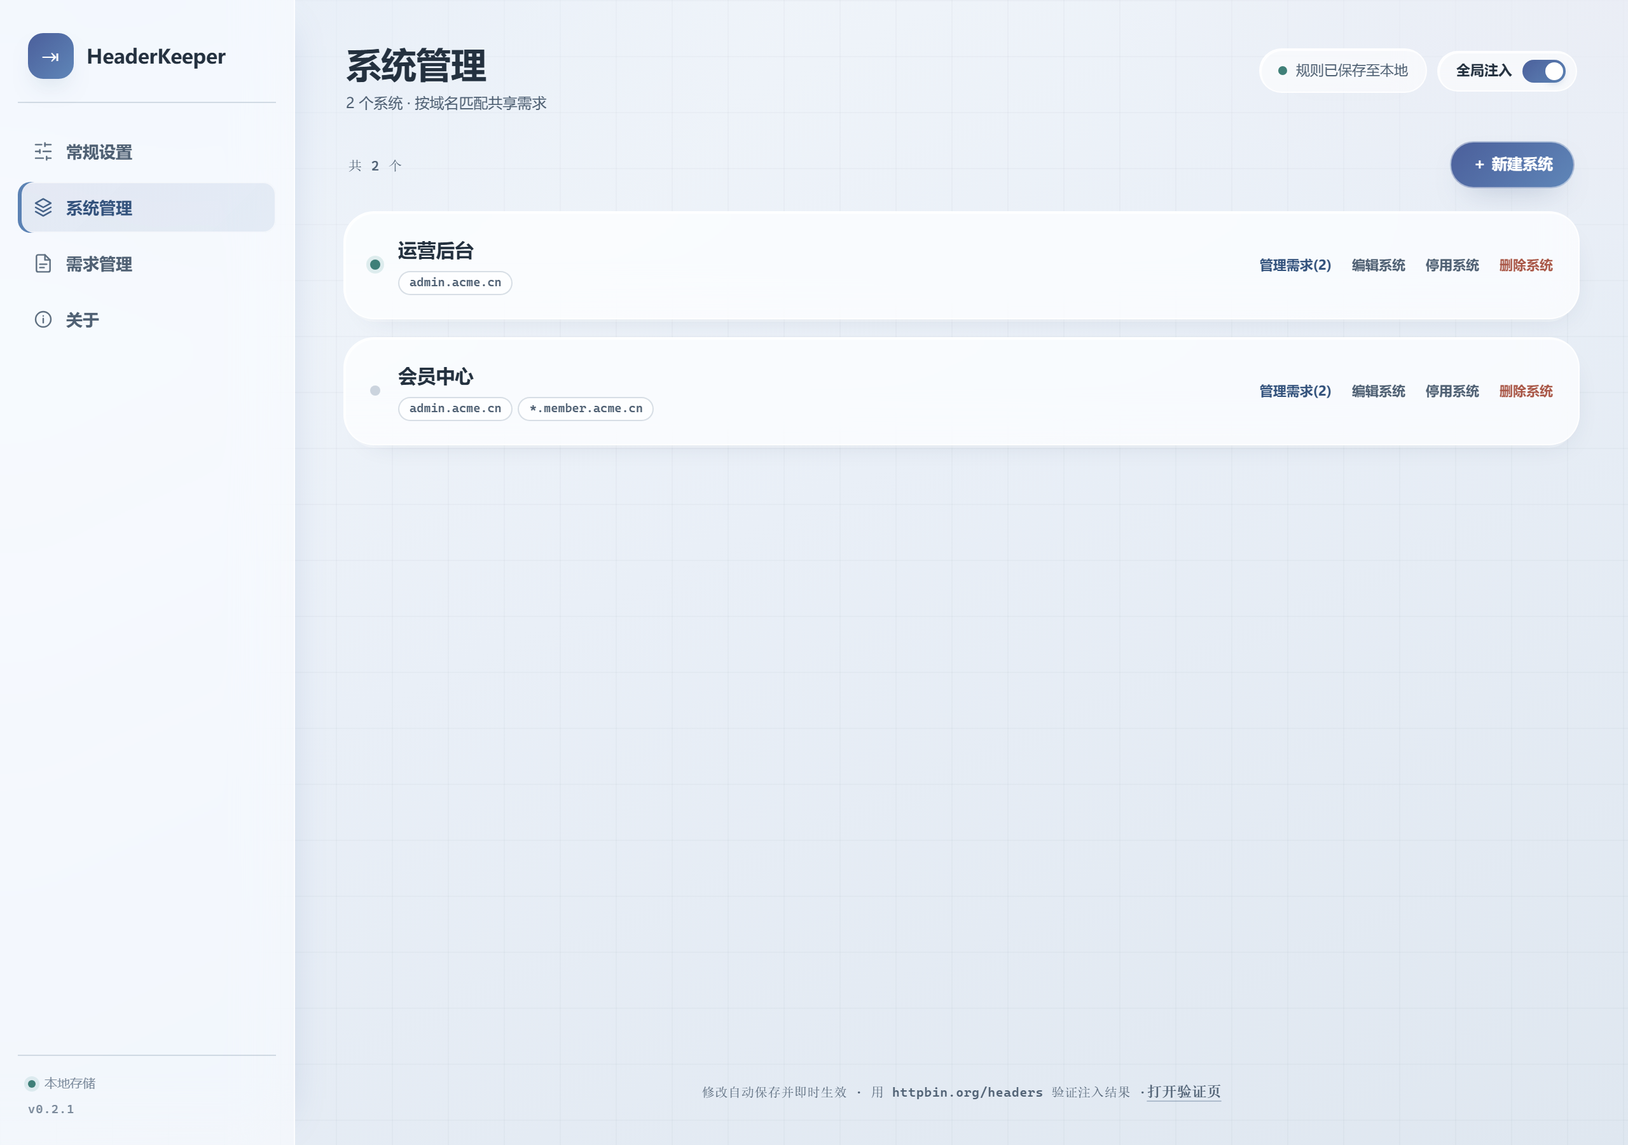
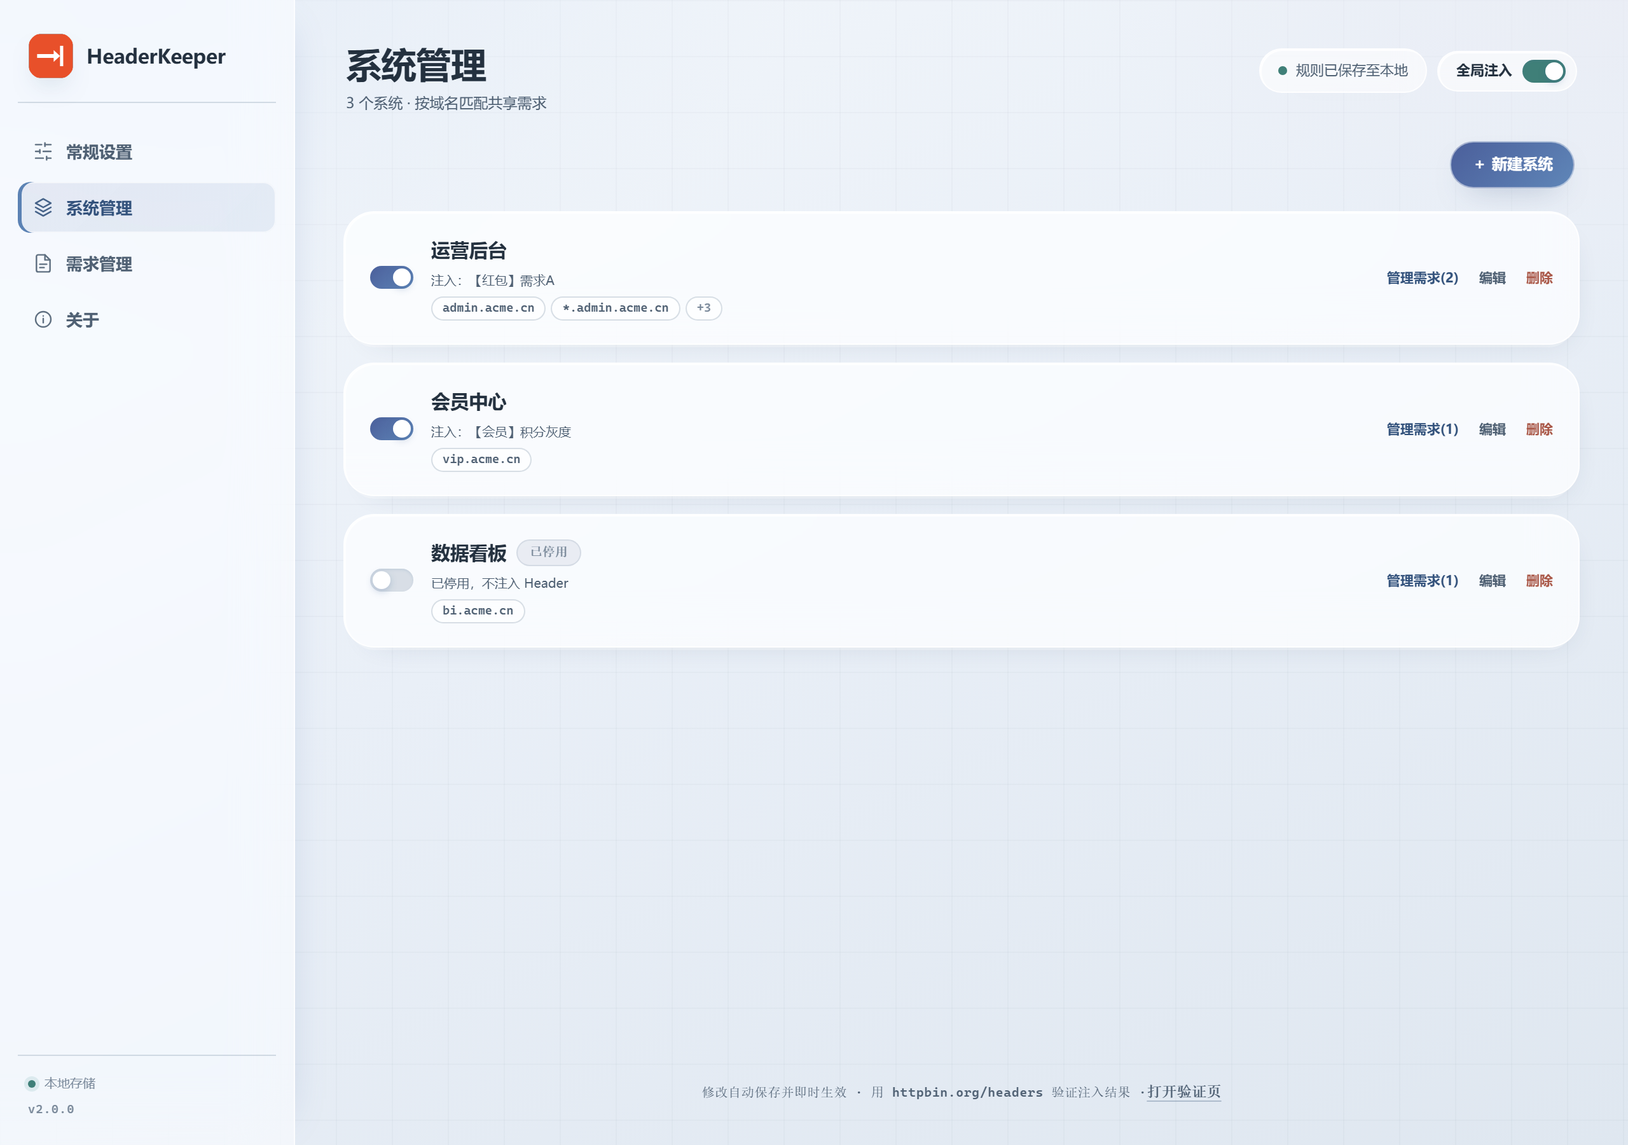
chore: 清理死代码并同步文档与截图
- 删除 18 个未使用 i18n key（中英各一份）与整文件 utils/format.ts
- 删除未使用 CSS（.banner/.edit-row/.sys-row-count/.sys-row-chevron/
  .req-delete-warning/.btn.dashed/.btn.danger-ghost），组选择器收窄
- 收窄导出面：9 个仅内部使用的函数与 4 个类型去掉 export
- .gitignore 补充 .zcode/ 与 .commandcode/
- README 六处失真描述更新（Header Key live-save、系统列表新交互、
  冲突检测含同需求重复、导入双键校验等）
- docs/images 四张截图按当前 UI 重新生成

diff --git a/lib/i18n.ts b/lib/i18n.ts
@@ -11,12 +11,8 @@ const zh = {
   'common.loading': '加载中…',
   'common.save': '保存',
   'common.cancel': '取消',
-  'common.create': '创建',
   'common.clear': '清除',
   'common.delete': '删除',
-  'common.edit': '编辑',
-  'common.confirmDeleteQuestion': '确认删除？',
-  'common.confirmAgain': '再次点击确认删除',
 
   // 弹窗 · 总开关
   'master.on': '全局注入已开启',
@@ -123,28 +119,18 @@ const zh = {
   'systems.domains': '匹配域名',
   'systems.create': '创建系统',
   'systems.empty': '还没有系统，先创建一个。',
-  'systems.delete': '删除系统',
   'systems.deleteConfirm': '确认删除',
   'systems.deleteTitle': '删除系统「{name}」',
-  'systems.nameRequired': '系统名称必填',
   'systems.nameDuplicate': '系统名称已存在',
-  'systems.domainRequired': '请至少填写一个有效域名',
   'systems.back': '< 返回系统列表',
-  'systems.info': '基础信息',
-  'systems.enabled': '参与注入',
   'systems.newRequirement': '＋ 新建需求',
   'systems.linkRequirement': '＋ 关联已有需求',
   'systems.noRequirements': '该系统还没有关联需求',
   'systems.noFiltered': '没有符合筛选条件的需求',
   'systems.remove': '移出本系统',
   'systems.removeTitle': '只解除引用，不会删除共享需求',
-  'systems.shared': '共享 · {n} 个系统',
   'systems.deleteNote': '删除系统只会移除它的注入配置，共享需求会保留。',
   'systems.createRequirement': '创建并关联',
-  'systems.requirementNamePh': '需求名称，如 需求1',
-  'systems.requirementDescPh': '需求描述（可选）',
-  'systems.nameLabel': '系统名称',
-  'systems.domainsLabel': '匹配域名',
   'systems.reqSection': '关联需求',
 
   // 关联需求弹窗
@@ -159,16 +145,13 @@ const zh = {
   'requirements.empty': '共享需求库还是空的。',
   'requirements.noFiltered': '没有符合筛选条件的需求',
   'requirements.referencedBy': '被引用',
-  'requirements.unreferenced': '未被任何系统引用',
   'requirements.deleteTitle': '删除共享需求',
   'requirements.deleteConfirm': '确认删除',
   'requirements.deleteWarning': '将从 {n} 个系统中移除该需求',
   'requirements.deleteWarningNone': '该需求未被任何系统引用',
-  'requirements.sharedHint': '共享需求，修改会同步到所有引用系统',
   'requirements.createNamePh': '需求名称，如 需求1',
   'requirements.createDescPh': '需求描述（可选）',
   'requirements.create': '创建需求',
-  'requirements.nameRequired': '需求名称必填',
   'requirements.orphan': '未引用',
   'requirements.etc': '等',
   'requirements.refSeparator': '、',
@@ -183,7 +166,6 @@ const zh = {
   'filters.valid': '未过期',
   'filters.expired': '已过期',
   'filters.search': '搜索',
-  'filters.clear': '清除筛选',
 
   // 需求卡片
   'requirement.unnamed': '未命名需求',
@@ -273,12 +255,8 @@ const en: { [K in keyof typeof zh]: string } = {
   'common.loading': 'Loading…',
   'common.save': 'Save',
   'common.cancel': 'Cancel',
-  'common.create': 'Create',
   'common.clear': 'Clear',
   'common.delete': 'Delete',
-  'common.edit': 'Edit',
-  'common.confirmDeleteQuestion': 'Delete this?',
-  'common.confirmAgain': 'Click again to confirm',
 
   'master.on': 'Global injection is ON',
   'master.off': 'Global injection is OFF',
@@ -383,28 +361,18 @@ const en: { [K in keyof typeof zh]: string } = {
   'systems.domains': 'Match domains',
   'systems.create': 'Create system',
   'systems.empty': 'No systems yet — create one first.',
-  'systems.delete': 'Delete system',
   'systems.deleteConfirm': 'Confirm delete',
   'systems.deleteTitle': 'Delete system "{name}"',
-  'systems.nameRequired': 'System name is required',
   'systems.nameDuplicate': 'System name already exists',
-  'systems.domainRequired': 'Enter at least one valid domain',
   'systems.back': '< Back to systems',
-  'systems.info': 'Basics',
-  'systems.enabled': 'Inject',
   'systems.newRequirement': '＋ New requirement',
   'systems.linkRequirement': '＋ Link existing',
   'systems.noRequirements': 'No requirements linked to this system yet',
   'systems.noFiltered': 'No requirements match the filters',
   'systems.remove': 'Remove from system',
   'systems.removeTitle': 'Unlinks only — the shared requirement is kept',
-  'systems.shared': 'Shared · {n} systems',
   'systems.deleteNote': 'Deleting a system only removes its injection setup; shared requirements stay.',
   'systems.createRequirement': 'Create and link',
-  'systems.requirementNamePh': 'Requirement name, e.g. Req 1',
-  'systems.requirementDescPh': 'Description (optional)',
-  'systems.nameLabel': 'System name',
-  'systems.domainsLabel': 'Match domains',
   'systems.reqSection': 'Linked requirements',
 
   'picker.title': 'Link existing requirement',
@@ -417,16 +385,13 @@ const en: { [K in keyof typeof zh]: string } = {
   'requirements.empty': 'The shared requirement library is empty.',
   'requirements.noFiltered': 'No requirements match the filters',
   'requirements.referencedBy': 'Referenced by',
-  'requirements.unreferenced': 'Not referenced by any system',
   'requirements.deleteTitle': 'Delete shared requirement',
   'requirements.deleteConfirm': 'Confirm delete',
   'requirements.deleteWarning': 'Will be removed from {n} systems',
   'requirements.deleteWarningNone': 'This requirement is not referenced by any system',
-  'requirements.sharedHint': 'Shared requirement — edits apply to every referencing system',
   'requirements.createNamePh': 'Requirement name, e.g. Req 1',
   'requirements.createDescPh': 'Description (optional)',
   'requirements.create': 'Create requirement',
-  'requirements.nameRequired': 'Requirement name is required',
   'requirements.orphan': 'Unlinked',
   'requirements.etc': '…',
   'requirements.refSeparator': ', ',
@@ -440,7 +405,6 @@ const en: { [K in keyof typeof zh]: string } = {
   'filters.valid': 'Not expired',
   'filters.expired': 'Expired',
   'filters.search': 'Search',
-  'filters.clear': 'Clear filters',
 
   'requirement.unnamed': 'Untitled requirement',
   'requirement.createTitle': 'New requirement',

diff --git a/styles/base.css b/styles/base.css
@@ -281,33 +281,6 @@ input[type='text'].key-input {
   box-shadow: 0 12px 26px -14px rgb(169 87 71 / 0.55);
 }
 
-.btn.dashed {
-  background: transparent;
-  border: 1.5px dashed var(--line-strong);
-  border-radius: var(--r-md);
-  box-shadow: none;
-  color: var(--ink-2);
-}
-
-.btn.dashed:hover {
-  border-color: var(--accent);
-  background: var(--accent-soft);
-  color: var(--accent-deep);
-  box-shadow: none;
-}
-
-.btn.danger-ghost {
-  background: transparent;
-  box-shadow: none;
-  color: var(--ink-2);
-}
-
-.btn.danger-ghost:hover {
-  background: var(--red-soft);
-  box-shadow: none;
-  color: var(--red);
-}
-
 .icon-btn {
   display: inline-flex;
   align-items: center;
@@ -344,21 +317,6 @@ input[type='text'].key-input {
 .link-btn:hover {
   color: var(--accent-deep);
   text-decoration-color: currentColor;
-}
-
-/* 状态提示条：中性底 + 陶土红左沿，表示「当前不生效」 */
-.banner {
-  padding: 11px 16px;
-  border-radius: var(--r-md);
-  background: linear-gradient(135deg, rgb(255 243 240 / 0.66), rgb(255 255 255 / 0.52));
-  -webkit-backdrop-filter: var(--blur);
-  backdrop-filter: var(--blur);
-  border: 1px solid var(--glass-line);
-  border-left: 2px solid #b26854;
-  color: var(--ink-2);
-  font-size: 12px;
-  font-weight: 500;
-  box-shadow: var(--shadow-sm);
 }
 
 .loading {

diff --git a/lib/requirements.ts b/lib/requirements.ts
@@ -8,11 +8,11 @@ export function requirementExpired(requirement: Requirement, now: number = Date.
 }
 
 /** 需求 id -> 需求 的索引 */
-export function requirementMap(config: LaneConfig): Map<string, Requirement> {
+function requirementMap(config: LaneConfig): Map<string, Requirement> {
   return new Map(config.requirements.map((r) => [r.id, r]));
 }
 
-export function requirementById(config: LaneConfig, id: string | null): Requirement | null {
+function requirementById(config: LaneConfig, id: string | null): Requirement | null {
   if (!id) return null;
   return config.requirements.find((r) => r.id === id) ?? null;
 }
@@ -26,7 +26,7 @@ export function systemRequirements(config: LaneConfig, system: SystemEntry): Req
 }
 
 /** 系统当前「使用中」的需求（不校验过期） */
-export function activeRequirement(config: LaneConfig, system: SystemEntry): Requirement | null {
+function activeRequirement(config: LaneConfig, system: SystemEntry): Requirement | null {
   const id = system.activeRequirementId;
   if (!id || !system.requirementIds.includes(id)) return null;
   return requirementById(config, id);

diff --git a/entrypoints/options/style.css b/entrypoints/options/style.css
@@ -220,10 +220,6 @@
   cursor: pointer;
 }
 
-.banner {
-  margin: 0 4px;
-}
-
 /* ---------- 通用面板 ---------- */
 .panel-card {
   padding: 20px;
@@ -272,11 +268,6 @@
   font-weight: 600;
   letter-spacing: 0;
   color: var(--red);
-}
-
-.edit-row {
-  display: flex;
-  gap: 8px;
 }
 
 .form-error {
@@ -471,21 +462,9 @@
   color: var(--accent-deep);
 }
 
-.sys-row-count {
-  flex: none;
-  font-size: 10px;
-  color: var(--ink-2);
-  white-space: nowrap;
-}
-
 .sys-row-switch,
-.sys-row-delete,
-.sys-row-chevron {
+.sys-row-delete {
   flex: none;
-}
-
-.sys-row-chevron {
-  color: var(--ink-3);
 }
 
 .sys-row-switch {
@@ -992,16 +971,6 @@ input[type='datetime-local'].expire-input:focus {
   font-size: 9.5px;
   letter-spacing: 0.04em;
   font-weight: 700;
-}
-
-.req-delete-warning {
-  margin-top: 10px;
-  padding: 8px 12px;
-  border-radius: 10px;
-  background: var(--red-soft);
-  color: var(--red);
-  font-size: 10.5px;
-  font-weight: 600;
 }
 
 /* 键值表 */

diff --git a/lib/requirementImport.ts b/lib/requirementImport.ts
@@ -8,7 +8,7 @@ function isRecord(value: unknown): value is UnknownRecord {
   return typeof value === 'object' && value !== null && !Array.isArray(value);
 }
 
-export type ImportKeyType = 'id' | 'name';
+type ImportKeyType = 'id' | 'name';
 
 export interface ImportConflict {
   name: string;
@@ -36,7 +36,7 @@ export interface ImportPreview {
  * 支持：需求数组 / 单个需求对象 / { requirements: [...] }。
  * 不是可识别的结构时返回 null。
  */
-export function extractCandidates(raw: unknown): unknown[] | null {
+function extractCandidates(raw: unknown): unknown[] | null {
   if (Array.isArray(raw)) return raw;
   if (isRecord(raw)) {
     if (Array.isArray(raw.requirements)) return raw.requirements;

diff --git a/services/badge.ts b/services/badge.ts
@@ -4,7 +4,7 @@ import { activeInjectableRequirement } from '@/lib/requirements';
 import { loadConfig } from '@/services/store';
 
 /** 从 URL 提取域名（非 http/https 返回 null） */
-export function hostOf(url: string | undefined): string | null {
+function hostOf(url: string | undefined): string | null {
   if (!url) return null;
   try {
     const u = new URL(url);
@@ -15,7 +15,7 @@ export function hostOf(url: string | undefined): string | null {
 }
 
 /** 当前配置下，某个域名实际会注入的 Header 数量 */
-export function countHeadersForHost(
+function countHeadersForHost(
   config: Awaited<ReturnType<typeof loadConfig>>,
   host: string | null,
 ): number {

diff --git a/lib/domains.ts b/lib/domains.ts
@@ -37,14 +37,14 @@ export function domainBase(pattern: string): string | null {
 }
 
 /** 域名模式是否命中 host（两种写法等价：命中本域与全部子域名） */
-export function hostMatchesPattern(pattern: string, host: string): boolean {
+function hostMatchesPattern(pattern: string, host: string): boolean {
   const p = domainBase(pattern);
   if (!p) return false;
   return host === p || host.endsWith(`.${p}`);
 }
 
 /** 系统是否命中 host */
-export function systemMatches(system: SystemEntry, host: string): boolean {
+function systemMatches(system: SystemEntry, host: string): boolean {
   return system.domains.some((d) => hostMatchesPattern(d, host));
 }
 

diff --git a/lib/ops.ts b/lib/ops.ts
@@ -232,7 +232,7 @@ export function isV2Config(value: unknown): value is LaneConfig {
 }
 
 /** 清洗 v2 配置：补全字段、过滤悬空引用、保证 active 引用合法 */
-export function normalizeConfig(raw: unknown): LaneConfig {
+function normalizeConfig(raw: unknown): LaneConfig {
   const src = isRecord(raw) ? raw : {};
   const globalEnabled = src.globalEnabled !== false;
 

diff --git a/lib/conflicts.ts b/lib/conflicts.ts
@@ -2,7 +2,7 @@ import type { LaneConfig } from './types';
 import { matchSystems } from './domains';
 import { activeInjectableRequirement } from './requirements';
 
-export interface HeaderConflict {
+interface HeaderConflict {
   /** 冲突的 Header Key（保留首次出现的大小写） */
   key: string;
   /** 注入该 Key 的系统名（去重） */

diff --git a/lib/dnr.ts b/lib/dnr.ts
@@ -20,13 +20,13 @@ const ALL_RESOURCE_TYPES = [
   'other',
 ] as const;
 
-export interface DnrModifyHeader {
+interface DnrModifyHeader {
   header: string;
   operation: 'set';
   value: string;
 }
 
-export interface DnrRule {
+interface DnrRule {
   id: number;
   priority: number;
   condition: {

diff --git a/README.md b/README.md
@@ -21,7 +21,7 @@
 ## 界面
 
 - **弹窗（主界面）**：顶部品牌栏（右上角齿轮进入配置页）+ 浅色总开关卡片 + 「当前注入 / 系统」双 Tab（标签带数量，可左右切换，滚动时吸顶，默认停在「当前注入」并记住上次选择）+ Key 冲突提醒 + 未匹配时快捷创建系统。当前注入 Tab 汇总所有匹配系统实际会发送的 `KEY = VALUE`。
-- **配置页**：冰蓝灰渐变底 + 毛玻璃悬浮卡片（半透明白、极细白边、冷色柔光阴影），深靛蓝到钢蓝的渐变仅作小面积点缀；系统无衬线字体与等宽数字。左侧导航固定贴边、上下通栏（常规设置 / 系统管理 / 需求管理 / 关于），右侧为内容区。系统列表支持管理需求、编辑（弹窗）、停用/启用与删除；系统详情顶部为一行式摘要（返回系统列表按钮 + 系统名），下方集中管理该系统关联需求；需求管理以瀑布流卡片展示全量共享需求，支持搜索/清除筛选、内联编辑、确认后删除与导入。常规设置内含语言切换与配置导入/导出。
+- **配置页**：冰蓝灰渐变底 + 毛玻璃悬浮卡片（半透明白、极细白边、冷色柔光阴影），深靛蓝到钢蓝的渐变仅作小面积点缀；系统无衬线字体与等宽数字。左侧导航固定贴边、上下通栏（常规设置 / 系统管理 / 需求管理 / 关于），右侧为内容区。系统列表每行提供行首启停开关、名称旁「已停用」徽标与注入状态行（当前展示的需求、过期 / 未关联 / 全局关闭等说明），域名超过两个自动折叠，操作精简为管理需求、编辑（弹窗）与删除；系统详情顶部为一行式摘要（返回系统列表按钮 + 系统名），下方集中管理该系统关联需求；需求管理以瀑布流卡片展示全量共享需求，支持搜索/清除筛选、内联编辑、确认后删除与导入。常规设置内含语言切换与配置导入/导出。
 
 ## 界面截图
 
@@ -55,13 +55,13 @@
 ```
 
 - **系统**：名称（必填、唯一）+ 一个或多个匹配域名（支持精确与通配符写法 `*.example.com`，两者都命中本域及全部子域名）+ 引用的共享需求。名称或域名为空时输入框直接描红；名称重复时在字段标签旁显示红字提示。
-- **共享需求**：独立存在于需求库中，名称（必填、不可重名，重名时字段旁红字提示）+ 描述（可选）+ 过期时间 + 任意多条 Header（Header 名 → 值）。同一个需求可被多个系统同时引用；在任一系统里修改都会同步到所有引用系统。同一需求内 Header Key 不可重复（不区分大小写），重复时输入框描红且不会写入；未修正就切换页面时，未写入的空 Key 行会被丢弃。
+- **共享需求**：独立存在于需求库中，名称（必填、不可重名，重名时字段旁红字提示）+ 描述（可选）+ 过期时间 + 任意多条 Header（Header 名 → 值）。同一个需求可被多个系统同时引用；在任一系统里修改都会同步到所有引用系统。同一需求内 Header Key 重复（不区分大小写）时输入框描红提示，但可自由编辑保存；注入时同一需求内重复 Key 只保留最后一个（last-wins）。切换页面时空 Key 行会被丢弃。
 - **使用中**：每个系统至多一个「使用中」的需求；在弹窗点选即整体应用，再点取消。多个系统可以同时使用同一个需求。
 - **过期时间**：需求可设置过期时间，到期后自动停止注入并从弹窗隐藏（配置页显示「已过期」，可改期或清除）。
-- **三层开关**：全局总闸（弹窗顶部 / 配置页右上角）→ 系统注入开关（系统列表右侧）→ 需求使用状态。任一层关闭，该范围就不注入。
-- **冲突检测**：同一域名下 ≥2 个开启的系统注入相同 Key 时，在弹窗域名右侧以单行提示展示冲突 Key 与涉及系统；完整信息放在悬浮提示中。
+- **三层开关**：全局总闸（弹窗顶部 / 配置页右上角）→ 系统注入开关（系统列表行首）→ 需求使用状态。任一层关闭，该范围就不注入。
+- **冲突检测**：同一域名下 ≥2 个开启的系统注入相同 Key，或同一需求内重复 Key 时，在弹窗域名右侧以单行提示展示冲突 Key 与来源；完整信息放在悬浮提示中（同需求内重复标注「保留最后一个」）。
 - **角标**：工具栏图标显示**当前标签页站点**生效的 Header 数量，未匹配的站点不显示（打开弹窗自动校正，SPA 站内导航也不会残留旧值）。
-- **需求导入**：弹窗按「数据源 / 解析预览」分区展示；支持标准需求 JSON，也支持「自定义解析」——左侧粘贴任意 JSON，右侧编写 JS 解析代码；解析代码在隔离沙箱中执行，可保存到本地、下次打开自动恢复，并随「常规设置 → 配置数据」一起导出/导入。唯一键优先使用 `id`，缺省使用需求名称，冲突项跳过并汇报；`id` 缺省时自动生成；导入数据中同名的 Header Key 也会自动去重。解析后点击任意需求可展开查看 Header Key / Value。
+- **需求导入**：弹窗按「数据源 / 解析预览」分区展示；支持标准需求 JSON，也支持「自定义解析」——左侧粘贴任意 JSON，右侧编写 JS 解析代码；解析代码在隔离沙箱中执行，可保存到本地、下次打开自动恢复，并随「常规设置 → 配置数据」一起导出/导入。`id` 与需求名称都会参与唯一性校验，任一已存在即视为冲突并跳过汇报；`id` 缺省时自动生成；导入数据中同名的 Header Key 也会自动去重。解析后点击任意需求可展开查看 Header Key / Value。
 - **配置导入 / 导出**：位于「常规设置 → 配置数据」，配置 JSON（数据模型版本 2）方便团队共享；旧版配置不做迁移，见下方说明。
 
 ## 安装
@@ -142,7 +142,7 @@ npm run zip        # 打包 zip（发布用）
 
 ### 冒烟测试
 
-`npm run smoke` 用全新临时 profile 启动无头 Chrome for Testing（默认路径 `C:/Users/Wgoto/AppData/Local/ChromeForTesting/chrome.exe`，可用 `CHROME_PATH` 覆盖），端到端验证：旧配置备份/重置、Popup 默认 Tab 与记忆、需求切换、DNR 规则生成/清理、三层开关、角标按站点显示、需求过期、未匹配快捷创建、Key 冲突提示、系统详情改名/多域名、新建/关联/移出需求、需求筛选与内联编辑、重复 Header Key 与重名需求拦截、离开页面丢弃空 Key 行、必填项描红、删除需求/系统确认弹窗、导入预览 Header 展开、解析代码保存与保存按钮、配置导出/导入包含解析代码、左右栏对齐、标准/自定义需求导入与唯一键冲突、共享需求删除、语言切换、关于页与深链定位，并输出截图。运行前请先 `npm run build`。
+`npm run smoke` 用全新临时 profile 启动无头 Chrome for Testing（默认路径 `C:/Users/Wgoto/AppData/Local/ChromeForTesting/chrome.exe`，可用 `CHROME_PATH` 覆盖），端到端验证：旧配置备份/重置、Popup 默认 Tab 与记忆、需求切换、DNR 规则生成/清理、三层开关、角标按站点显示、需求过期、未匹配快捷创建、Key 冲突提示、系统详情改名/多域名、新建/关联/移出需求、需求筛选与内联编辑、重复 Header Key 描红与重名需求拦截、离开页面丢弃空 Key 行、必填项描红、删除需求/系统确认弹窗、导入预览 Header 展开、解析代码保存与保存按钮、配置导出/导入包含解析代码、左右栏对齐、标准/自定义需求导入与唯一键冲突、共享需求删除、语言切换、关于页与深链定位，并输出截图。运行前请先 `npm run build`。
 
 ## 项目结构
 
